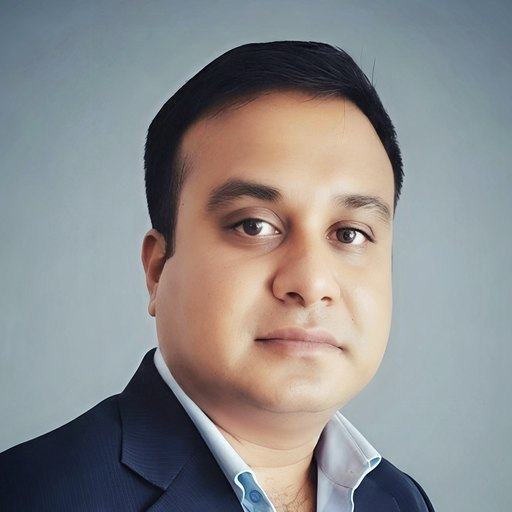
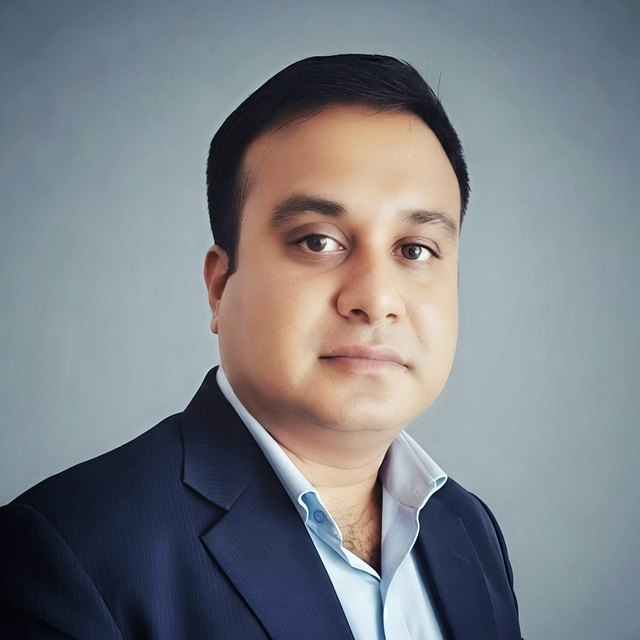
feat(header): enlarge and loosen the lead portrait
The self-hosted portrait read as small and tightly cropped: the 2600px source
square put the top of the head close to the frame edge, and at 100px it was
the same size as the secondary avatar despite being the primary subject.

- Crop loosened from a 2600px source square to 3200px, adding headroom above
  the head and bringing more of the shoulders into frame.
- Re-exported at 640x640 / 42 KB (was 512x512 / 29 KB), which covers a 140px
  circle at 3x device pixel ratio.
- Added a .profile-img--lead modifier at 140px so the lead portrait is larger
  than the 100px Loyla avatar. The two header circles are intentionally
  asymmetric now; the shared .profile-img rules still cover both.

Tests
-----
30 passing. New checks assert the lead portrait measures 140px while the
secondary stays 100px, and that the lead image ships at least 420px of real
pixels so it stays sharp on retina displays.

diff --git a/tests/github-activity.spec.js b/tests/github-activity.spec.js
@@ -363,6 +363,37 @@ test.describe('AC-10 header portraits', () => {
       .toBeGreaterThan(0);
   });
 
+  test('the lead portrait renders larger than the secondary avatar', async ({ page }) => {
+    await mockPrimary(page);
+    await page.goto('/index.html');
+
+    const boxes = await page
+      .locator('img.profile-img')
+      .evaluateAll((els) =>
+        els.map((el) => {
+          const r = el.getBoundingClientRect();
+          return { lead: el.classList.contains('profile-img--lead'), w: Math.round(r.width) };
+        })
+      );
+
+    const lead = boxes.find((b) => b.lead);
+    const secondary = boxes.find((b) => !b.lead);
+    expect(lead, 'the left portrait must carry the lead modifier').toBeTruthy();
+    expect(secondary, 'the right avatar must stay unmodified').toBeTruthy();
+    expect(lead.w).toBe(140);
+    expect(secondary.w).toBe(100);
+  });
+
+  test('the lead portrait has enough pixels for a 140px circle on retina', async ({ page }) => {
+    await mockPrimary(page);
+    await page.goto('/index.html');
+    const natural = await page
+      .locator('img.profile-img--lead')
+      .evaluate((el) => el.naturalWidth);
+    // 140 CSS px at 3x device pixel ratio needs 420px of real image.
+    expect(natural).toBeGreaterThanOrEqual(420);
+  });
+
   test('the committed portrait stays within a sane size budget', () => {
     const file = path.join(__dirname, '..', LOCAL_PORTRAIT);
     expect(fs.existsSync(file), `${LOCAL_PORTRAIT} must be committed`).toBe(true);

diff --git a/index.html b/index.html
@@ -27,8 +27,8 @@
                   not ours to depend on.
                 -->
                 <a href="https://www.flexilytics.ai/about" target="_blank">
-                    <img src="assets/arjun-ghosh.jpg" alt="Arjun Ghosh, Chief AI Officer and CTO of Flexilytics" class="profile-img"
-                         width="100" height="100"
+                    <img src="assets/arjun-ghosh.jpg" alt="Arjun Ghosh, Chief AI Officer and CTO of Flexilytics" class="profile-img profile-img--lead"
+                         width="140" height="140"
                          onerror="this.onerror=null; this.src='https://github.com/arjunghosh.png';">
                 </a>
 

diff --git a/style.css b/style.css
@@ -99,6 +99,12 @@ header {
   box-shadow: 0 10px 20px rgba(0,0,0,0.3);
 }
 
+/* The lead portrait is deliberately larger than the secondary avatar */
+.profile-img--lead {
+  width: 140px;
+  height: 140px;
+}
+
 .profile-img:hover {
   filter: grayscale(0%); /* Color on Hover */
   transform: scale(1.05) rotate(3deg);

diff --git a/README.md b/README.md
@@ -72,6 +72,17 @@ direct production dependency:
     something sensible instead of stretched alt text.
 
 ## 📝 Changelog
+### [v1.7.3] - 2026-08-04
+*   **Design**: The lead portrait is now larger than the secondary avatar
+    (140px vs 100px) via a `.profile-img--lead` modifier, and the crop was
+    loosened (3200px source square instead of 2600px) so there is headroom
+    above the head instead of the frame cutting in tight.
+*   **Asset**: Re-exported at 640×640 / 42 KB, enough for a 140px circle at 3×
+    device pixel ratio.
+*   **Tests**: 30 passing. Added checks that the lead portrait measures 140px
+    while the secondary stays 100px, and that the lead image ships at least
+    420px of real pixels.
+
 ### [v1.7.2] - 2026-08-04
 *   **Fix**: The left header portrait is now served from this repo
     (`assets/arjun-ghosh.jpg`) instead of hotlinking
